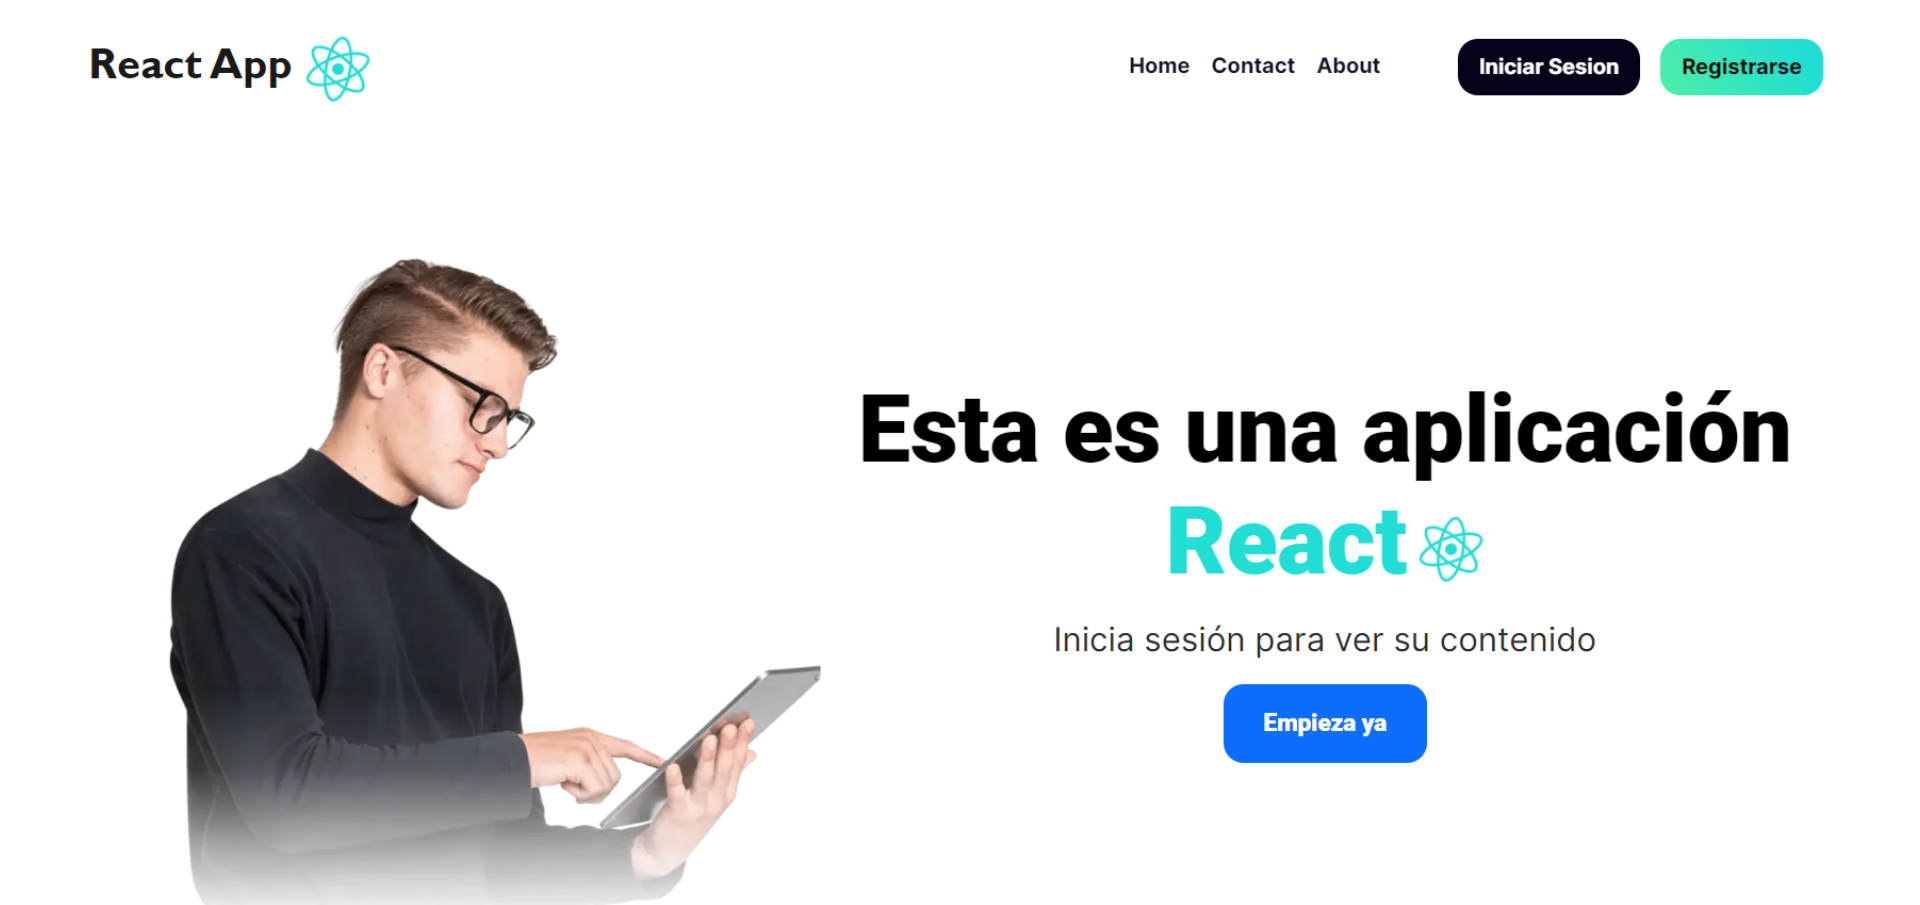
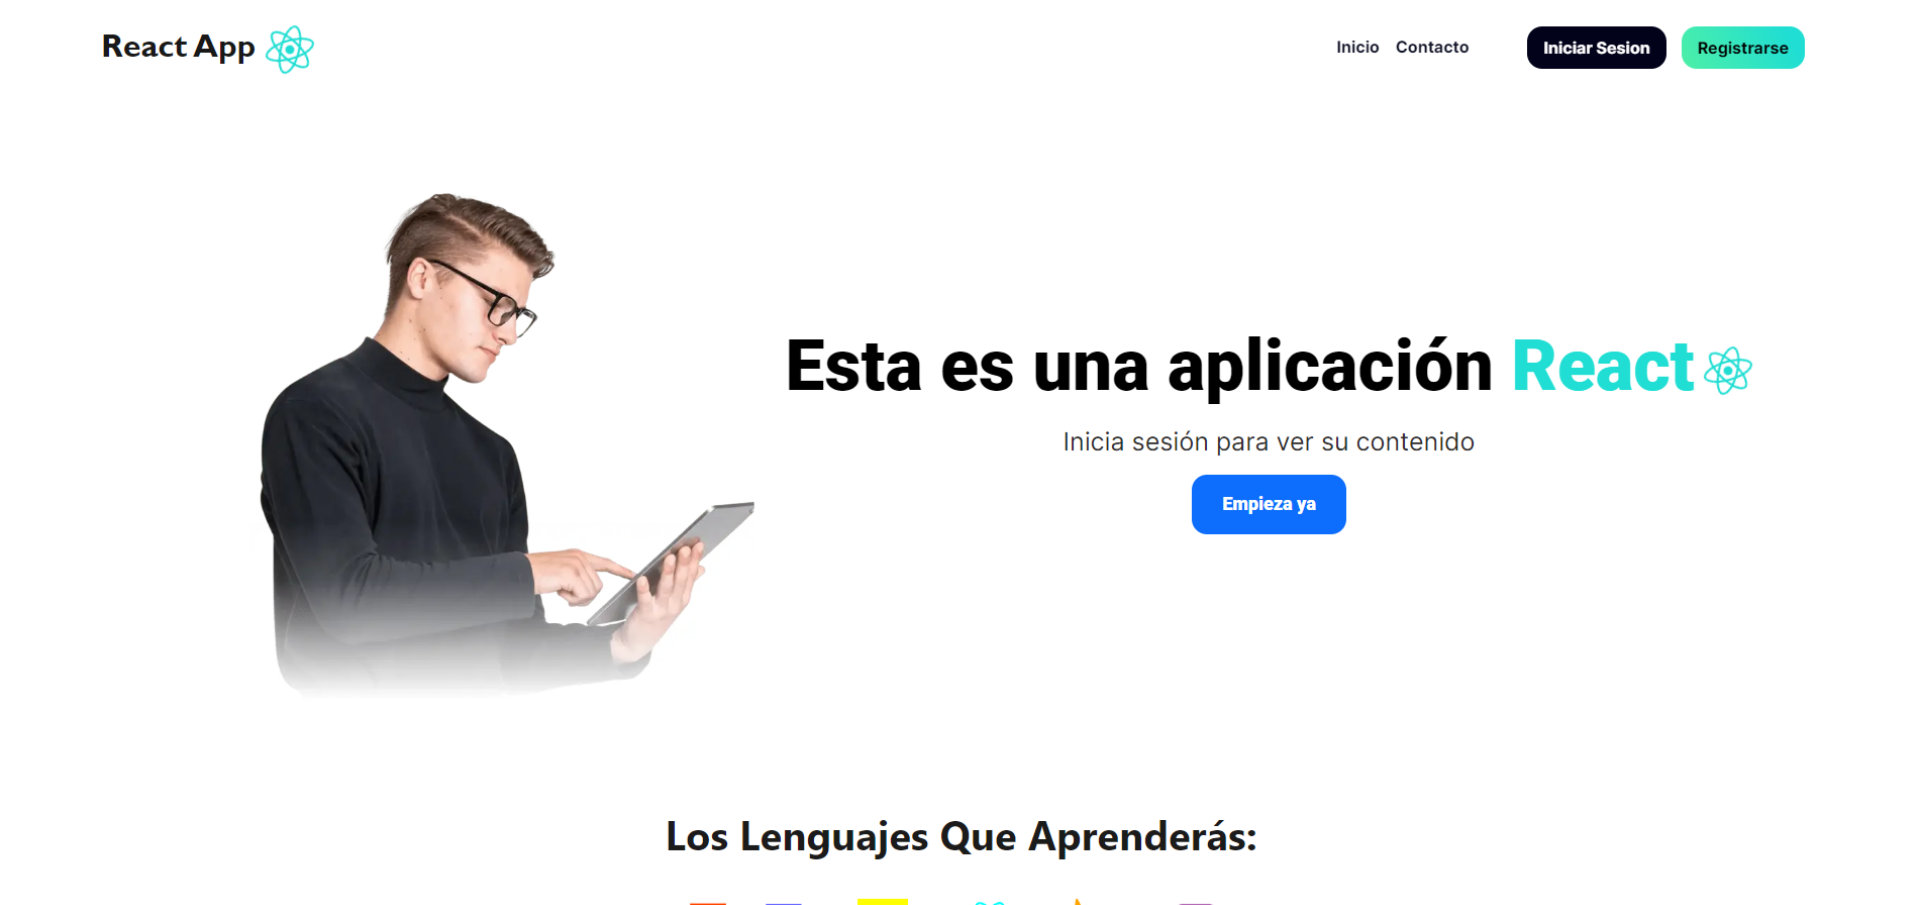
add gpt3, set navbar

diff --git a/src/data.js b/src/data.js
@@ -1,51 +1,58 @@
 export const itemsWeb = [
-    {
-      title: 'Audiometria',
-      img: require('./props/audiometria.png'),
-      link: 'https://audiometria-scc.netlify.app/',
-      github: 'https://github.com/santiago1525/audiometria'
+  {
+    title: 'GPT 3',
+    img: require('./props/gpt3.png'),
+    link: 'https://gpt-3-santiago1525.vercel.app/',
+    github: 'https://github.com/santiago1525/GPT3'
 
-    },
-    {
-      title: 'Real State',
-      img: require('./props/realState.png'),
-      link: 'https://real-state-wheat.vercel.app/',
-      github: 'https://github.com/santiago1525/realState'
-    },
-    {
-      title: 'firebase',
-      img: require('./props/react-app.png'),
-      link: 'https://cursos-firebase.vercel.app/',
-      github: 'https://github.com/santiago1525/cursosFirebase'
-    },
-    {
-      title: 'Relojeria',
-      img: require('./props/relojeria.png'),
-      link: 'https://relojeria-scc.netlify.app/',
-      github: 'https://github.com/santiago1525/relojeria'
-    },
-    {
-      title: 'sistema usuarios',
-      img: require('./props/sistema-usuarios.png'),
-      link: 'http://sistema-usuarios.epizy.com',
-      github: 'https://github.com/sistemausuarios'
-    },
-    {
-      title: 'landing page',
-      img: require('./props/landingPage.png'),
-      link: 'https://landingpage-scc.netlify.app/',
-      github: 'https://github.com/santiago1525/landingPage'
-    },
-    
-    /* {
-      title: 'blog de cafe',
-      img: require('./props/bloCafe.png'),
-      link: 'https://blogdecafe-scc.netlify.app/',
-      github: 'https://github.com/santiago1525/blogCafe'
-    } */
-  
+  },
+  {
+    title: 'Cursos Programación',
+    img: require('./props/react-app.png'),
+    link: 'https://cursos-firebase.vercel.app/',
+    github: 'https://github.com/santiago1525/cursosFirebase'
+  },
+  {
+    title: 'Audiometria',
+    img: require('./props/audiometria.png'),
+    link: 'https://audiometria-scc.netlify.app/',
+    github: 'https://github.com/santiago1525/audiometria'
+
+  },
+  {
+    title: 'Relojeria',
+    img: require('./props/relojeria.png'),
+    link: 'https://relojeria-scc.netlify.app/',
+    github: 'https://github.com/santiago1525/relojeria'
+  },
+  {
+    title: 'Real State',
+    img: require('./props/realState.png'),
+    link: 'https://real-state-wheat.vercel.app/',
+    github: 'https://github.com/santiago1525/realState'
+  },
+  {
+    title: 'sistema usuarios',
+    img: require('./props/sistema-usuarios.png'),
+    link: 'http://sistema-usuarios.epizy.com',
+    github: 'https://github.com/sistemausuarios'
+  },
+  /* {
+    title: 'landing page',
+    img: require('./props/landingPage.png'),
+    link: 'https://landingpage-scc.netlify.app/',
+    github: 'https://github.com/santiago1525/landingPage'
+  }, */
+
+  /* {
+    title: 'blog de cafe',
+    img: require('./props/bloCafe.png'),
+    link: 'https://blogdecafe-scc.netlify.app/',
+    github: 'https://github.com/santiago1525/blogCafe'
+  } */
+
 ];
 
 export const itemsApp = [
-    
+
 ]

diff --git a/src/hojasDeEstilo/nav.css b/src/hojasDeEstilo/nav.css
@@ -36,13 +36,14 @@
   }
   
   .navigation .icon.active-nav {
-    fill: rgb(88, 117, 248);
+    fill: var(--color-sec);
     border: 2px solid rgb(88, 117, 248);
   }
   
   .navigation .icon:hover {
-    fill: rgba(88, 117, 248, 0.151);
-    border: 2px solid rgba(88, 117, 248, 0.192);
+    fill: var(--color-sec);
+    border: 2px solid var(--color-sec);
+    border-radius: 50%;
   }
   
   .navigation .icon.active-nav:hover {

diff --git a/src/hojasDeEstilo/works.css b/src/hojasDeEstilo/works.css
@@ -39,7 +39,6 @@
 }
 .portafolio_item:hover {
     border-color: var(--color-sec);
-    background: transparent;
 }
 .portafolio_item.apps {
     border: none;
@@ -125,6 +124,9 @@
   .swiper-slide img {
     display: block;
     width: 100%;
+  }
+  .swiper-3d .swiper-slide-shadow-right, .swiper-3d .swiper-slide-shadow-left {
+    border-radius: 2rem;
   }
 
 @media (max-width: 800px) {
